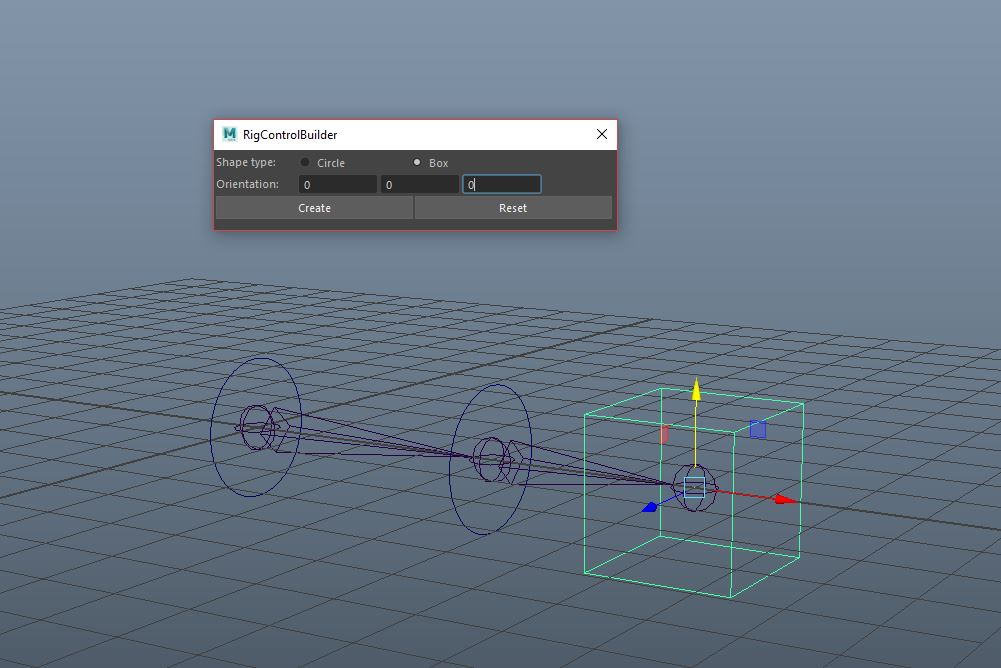
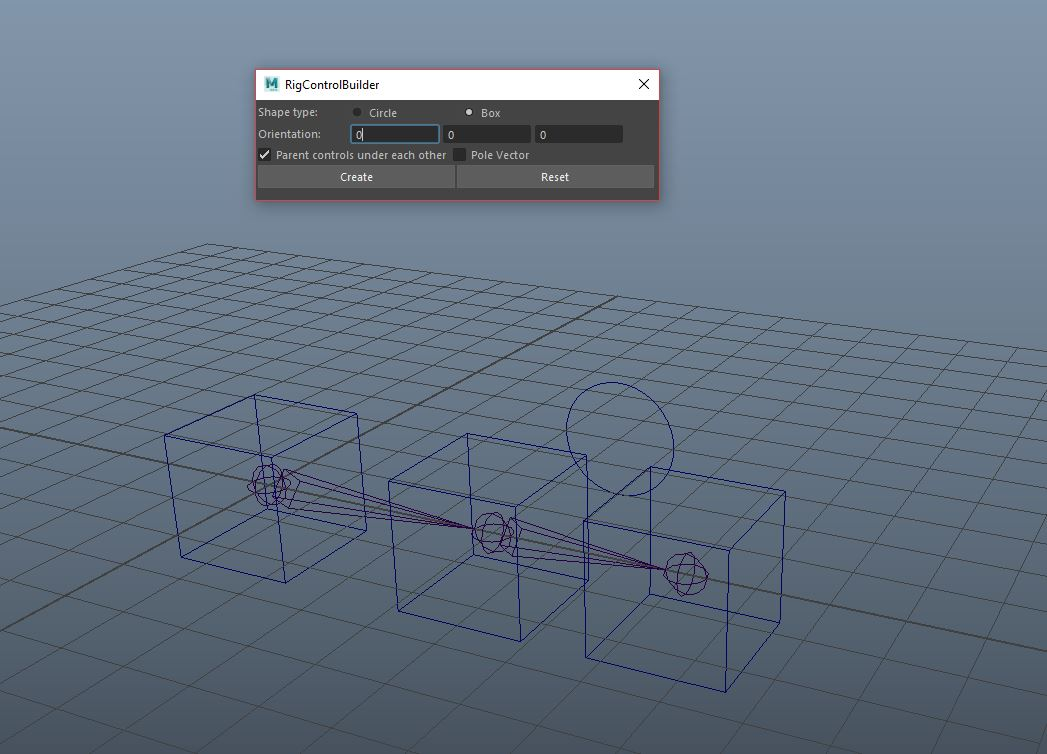
Adding new features

diff --git a/rigControlBuilder/rigControlBuilder.py b/rigControlBuilder/rigControlBuilder.py
@@ -2,13 +2,19 @@ from maya import cmds
 import pymel.core as pm
 
 '''
-Steps for creating control.
-1. Create shape. X
-2. Orient the shape in the right axis using setattr. X
-3. Group the control to itself and rename. X
-4. Select shape control group and the joint it is going to control and parent them. X
-5. Zero out translations and rotations on group. X
+Steps taken to create control(s).
+1. Create shape.
+2. Orient the shape in the right axis using setattr.
+3. Group the control to itself and rename.
+4. Select shape control group and the joint it is going to control and parent them.
+5. Zero out translations and rotations on group.
 6. Un-parent joint and control group.
+7. Parent controls under each-other if checkbox is set to True.
+8. Parent constraint joints to controls.
+
+* Add colour picker to change the shapes colour.
+* Give option to add to new layer?
+* Ask if the shape being built is a pole vector?
 '''
 
 
@@ -24,7 +30,7 @@ class controlBuilder(object):
 
     windowName = "RigControlBuilder"
     scriptName = 'controlBuilder'
-    height = 80
+    height = 100
     width = 400
     xVal = 0
     yVal = 0
@@ -52,7 +58,7 @@ class controlBuilder(object):
         cmds.deleteUI(self.windowName)
 
     def buildUI(self):
-        textWidth = 80
+        textWidth = 90
         buttonWidth = 197
 
         cmds.setParent(self.window)
@@ -77,6 +83,15 @@ class controlBuilder(object):
 
         cmds.setParent('..')
 
+        # Select whether you want to parent the chain of controls and their groups.
+        cmds.rowLayout(numberOfColumns=3)
+        cmds.checkBox('parentControls_checkBox', label="Parent controls under each other")
+
+        # Select whether the control we are building is intended as a Pole Vector control.
+        cmds.checkBox('poleVector_checkBox', label="Pole Vector")
+
+        cmds.setParent('..')
+
         # Create shape.
         cmds.rowLayout(numberOfColumns=2)
         pm.button(label="Create", align='right', command=self.createShapes, width=buttonWidth)
@@ -96,20 +111,42 @@ class controlBuilder(object):
         # List of new shapes created.
         newShapes = []
 
+        # Dictionaries
         jointShapes = {}
         jointGroups = {}
 
+        # List of items that will be used to group under each other.
+        controlAndGroup = []
+
         print(str(self.joints))
 
+        # TODO : Need to figure out a way to only allow for unique names to be created.
+
         # Create controls for all the joints depending on which radio button is selected.
+        # Currently outputs an error when trying to create multiple controls at the same joint.
         for joint in self.joints:
             if shapeType == 1:
                 name = joint.split('_')[0] + "_ctrl"
+                # Check if name already exists.
+                if cmds.objExists(name):
+                    cmds.error("Trying to create a shape with the same name."
+                               "Please change the name of previously built shape..")
+                    return
+                # Checks if this control should be a pole vector naming convention.
+                elif cmds.checkBox('poleVector_checkBox', q=True, value=True):
+                    name = "poleVector_ctrl"
                 self.pickShape('Circle', name)
                 newShapes.append(name)
                 jointShapes.update({joint : name})
             elif shapeType == 2:
                 name = joint.split('_')[0] + "_ctrl"
+                if cmds.objExists(name):
+                    cmds.error("Trying to create a shape with the same name. "
+                               "Please change the name of previously built shape..")
+                    return
+                    # Checks if this control should be a pole vector naming convention.
+                elif cmds.checkBox('poleVector_checkBox', q=True, value=True):
+                    name = "poleVector_ctrl"
                 self.pickShape('Box', name)
                 newShapes.append(name)
                 jointShapes.update({joint: name})
@@ -120,14 +157,23 @@ class controlBuilder(object):
         self.zVal = float(cmds.textField("zOrient", q=True, text=True))
 
         for shape in newShapes:
-            cmds.setAttr(shape + '.rotateX', self.xVal)
-            cmds.setAttr(shape + '.rotateY', self.yVal)
-            cmds.setAttr(shape + '.rotateZ', self.zVal)
+            if self.xVal != 0.0:
+                cmds.setAttr(shape + '.rotateX', self.xVal)
+            elif self.yVal != 0.0:
+                cmds.setAttr(shape + '.rotateY', self.yVal)
+            elif self.zVal != 0.0:
+                cmds.setAttr(shape + '.rotateZ', self.zVal)
 
         # Group and rename.
         for key, value in jointShapes.items():
             cmds.group(value, n=value + 'Grp')
             jointGroups.update({key : value + 'Grp'})
+            # Add the control and it's group to a list in the order that we will need to group them.
+            controlAndGroup.insert(0, value +'Grp')
+            controlAndGroup.insert(0, value)
+
+        # Check list of group and control items.
+        print(controlAndGroup)
 
         # Parent, zero out translations and rotations, and un-parent.
         for key, value in jointGroups.items():
@@ -140,6 +186,25 @@ class controlBuilder(object):
             cmds.setAttr(value + '.rotateZ', 0)
             cmds.parent(value, world=True)
 
+        # Parent controls and groups under each other.
+        # Iterate through the list and group the items up the chain IF the checkbox is on.
+        if cmds.checkBox('parentControls_checkBox', q=True, value=True):
+            for index in range(len(controlAndGroup)):
+                if self.isGroup(controlAndGroup[index]) and index != len(controlAndGroup)-1:
+                    # print("Group " + controlAndGroup[index] + " to " + controlAndGroup[index+1])
+                    cmds.parent(controlAndGroup[index], controlAndGroup[index+1])
+
+            # Parent constraint control to joints IF checkbox is on.
+            print("Control and Joint Pairs : ")
+            print(jointShapes)
+            for key, value in jointShapes.items():
+                cmds.parentConstraint(value, key)
+
+    ########################
+    # Helper functions
+    ########################
+
+    # Returns the right curve based on the shape name passed, also names it according to name passed.
     def pickShape(self, shape, name):
         if shape == 'Circle':
             # Circle shape control.
@@ -154,3 +219,18 @@ class controlBuilder(object):
                               k=[0, 1, 2, 3, 4, 5, 6, 7, 8, 9, 10, 11, 12, 13, 14, 15])
             return box
 
+    # Returns True if node is a group, False otherwise.
+    def isGroup(self, node):
+        if cmds.nodeType(node) != "transform":
+            return False
+
+        children = cmds.listRelatives(node, children=True)
+
+        if children is None:
+            return True
+
+        for child in children:
+            if cmds.nodeType(child) != 'transform':
+                return False
+        else:
+            return True
